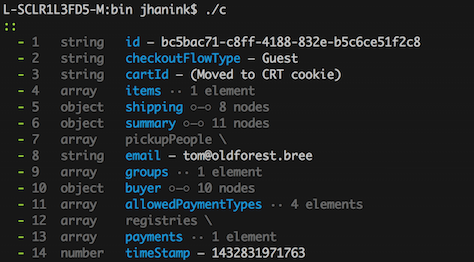
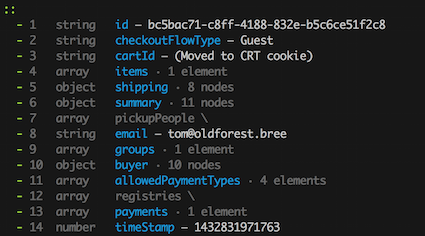
* code formatting * update clapi output screenshot

Changed region(s): [[0.0, 0.0, 0.9176, 1.0]]

diff --git a/app/clapi-nav-menu.jsx b/app/clapi-nav-menu.jsx
@@ -23,18 +23,18 @@ let menuItems = [
 module.exports = React.createClass({
   render() {
     var header = (
-        <div style={this.getStyles()} onTouchTap={this._onHeaderClick}>
-          clapi commands
-        </div>
+      <div style={this.getStyles()} onTouchTap={this._onHeaderClick}>
+        clapi commands
+      </div>
     );
     return (
       <LeftNav
-          ref="leftNav"
-          docked={false}
-          isInitiallyOpen={false}
-          header={header}
-          menuItems={menuItems}
-          onChange={this._onLeftNavChange} />
+        ref="leftNav"
+        docked={false}
+        isInitiallyOpen={false}
+        header={header}
+        menuItems={menuItems}
+        onChange={this._onLeftNavChange} />
     );
   },
   _toggle() {

diff --git a/clapi_modules/clapi-util.js b/clapi_modules/clapi-util.js
@@ -93,7 +93,7 @@ module.exports = {
       }
       str += propCount ? Const.COLORS.BLUE : Const.COLORS.DARK_GRAY;
       var toPluralize = propCount === 0 || propCount > 1;
-      str += (propCount?"+ ":"") + prop + "" + (propCount ? Const.COLORS.DARK_GRAY + " "+(objInfo.IS_ARRAY?"··":"○—○")+" "
+      str += (propCount?(objInfo.IS_ARRAY?"":""):"") + prop + "" + (propCount ? Const.COLORS.DARK_GRAY + " "+(objInfo.IS_ARRAY?"·":"·")+" "
           + propCount
           + (objInfo.IS_ARRAY?" element":" node")
           + (toPluralize?"s":"")

diff --git a/app/views/FetchInventoryView.jsx b/app/views/FetchInventoryView.jsx
@@ -1,7 +1,5 @@
 let React     = require("react");
 let Radium    = require("radium");
-let Color     = require("color");
-
 
 @Radium
 class FetchInventoryView extends React.Component {
@@ -22,6 +20,5 @@ let styles = {
     textAlign: 'center'
   }
 };
-
 
 module.exports = FetchInventoryView;

diff --git a/app/views/CreateGiftCardView.jsx b/app/views/CreateGiftCardView.jsx
@@ -1,6 +1,5 @@
 let React     = require("react");
 let Radium    = require("radium");
-let Color     = require("color");
 
 @Radium
 class CreateGiftCardView extends React.Component {
@@ -21,6 +20,5 @@ let styles = {
     textAlign: 'center'
   }
 };
-
 
 module.exports = CreateGiftCardView;

diff --git a/app/views/CreateTempCardView.jsx b/app/views/CreateTempCardView.jsx
@@ -1,6 +1,5 @@
 let React     = require("react");
 let Radium    = require("radium");
-let Color     = require("color");
 
 @Radium
 class CreateTempCardView extends React.Component {
@@ -21,6 +20,5 @@ let styles = {
     textAlign: 'center'
   }
 };
-
 
 module.exports = CreateTempCardView;

diff --git a/app/views/GetCustomerView.jsx b/app/views/GetCustomerView.jsx
@@ -1,6 +1,5 @@
 let React     = require("react");
 let Radium    = require("radium");
-let Color     = require("color");
 
 @Radium
 class GetCustomerView extends React.Component {
@@ -21,6 +20,5 @@ let styles = {
     textAlign: 'center'
   }
 };
-
 
 module.exports = GetCustomerView;

diff --git a/app/views/CreateCartView.jsx b/app/views/CreateCartView.jsx
@@ -1,6 +1,5 @@
 let React     = require("react");
 let Radium    = require("radium");
-let Color     = require("color");
 
 @Radium
 class CreateCartView extends React.Component {
@@ -21,6 +20,5 @@ let styles = {
     textAlign: 'center'
   }
 };
-
 
 module.exports = CreateCartView;

diff --git a/app/views/HomeView.jsx b/app/views/HomeView.jsx
@@ -1,6 +1,5 @@
 let React     = require("react");
 let Radium    = require("radium");
-let Color     = require("color");
 
 @Radium
 class HomeView extends React.Component {
@@ -21,6 +20,5 @@ let styles = {
     textAlign: 'center'
   }
 };
-
 
 module.exports = HomeView;

diff --git a/app/views/GetIroOffersView.jsx b/app/views/GetIroOffersView.jsx
@@ -1,7 +1,5 @@
 let React     = require("react");
 let Radium    = require("radium");
-let Color     = require("color");
-
 
 @Radium
 class GetIroOffersView extends React.Component {
